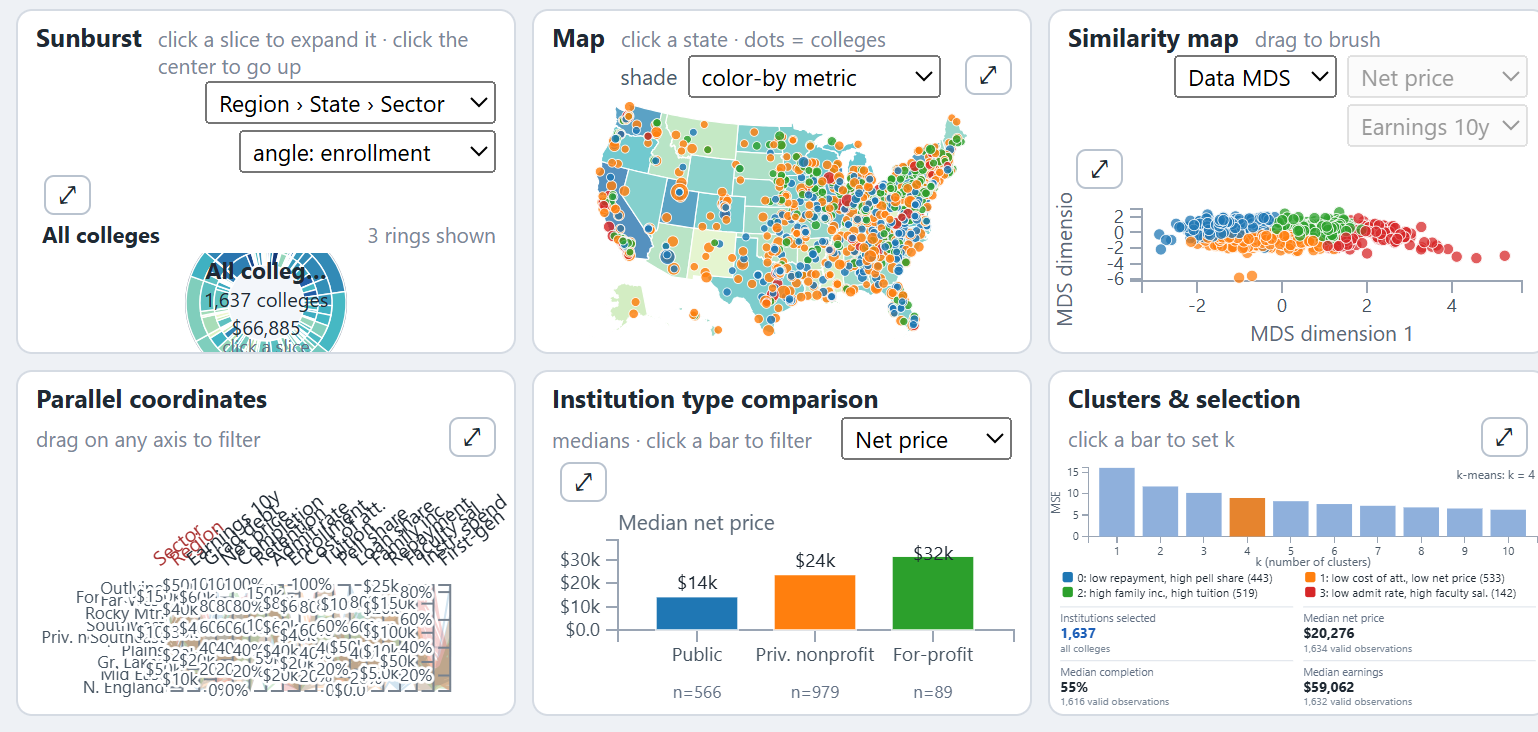
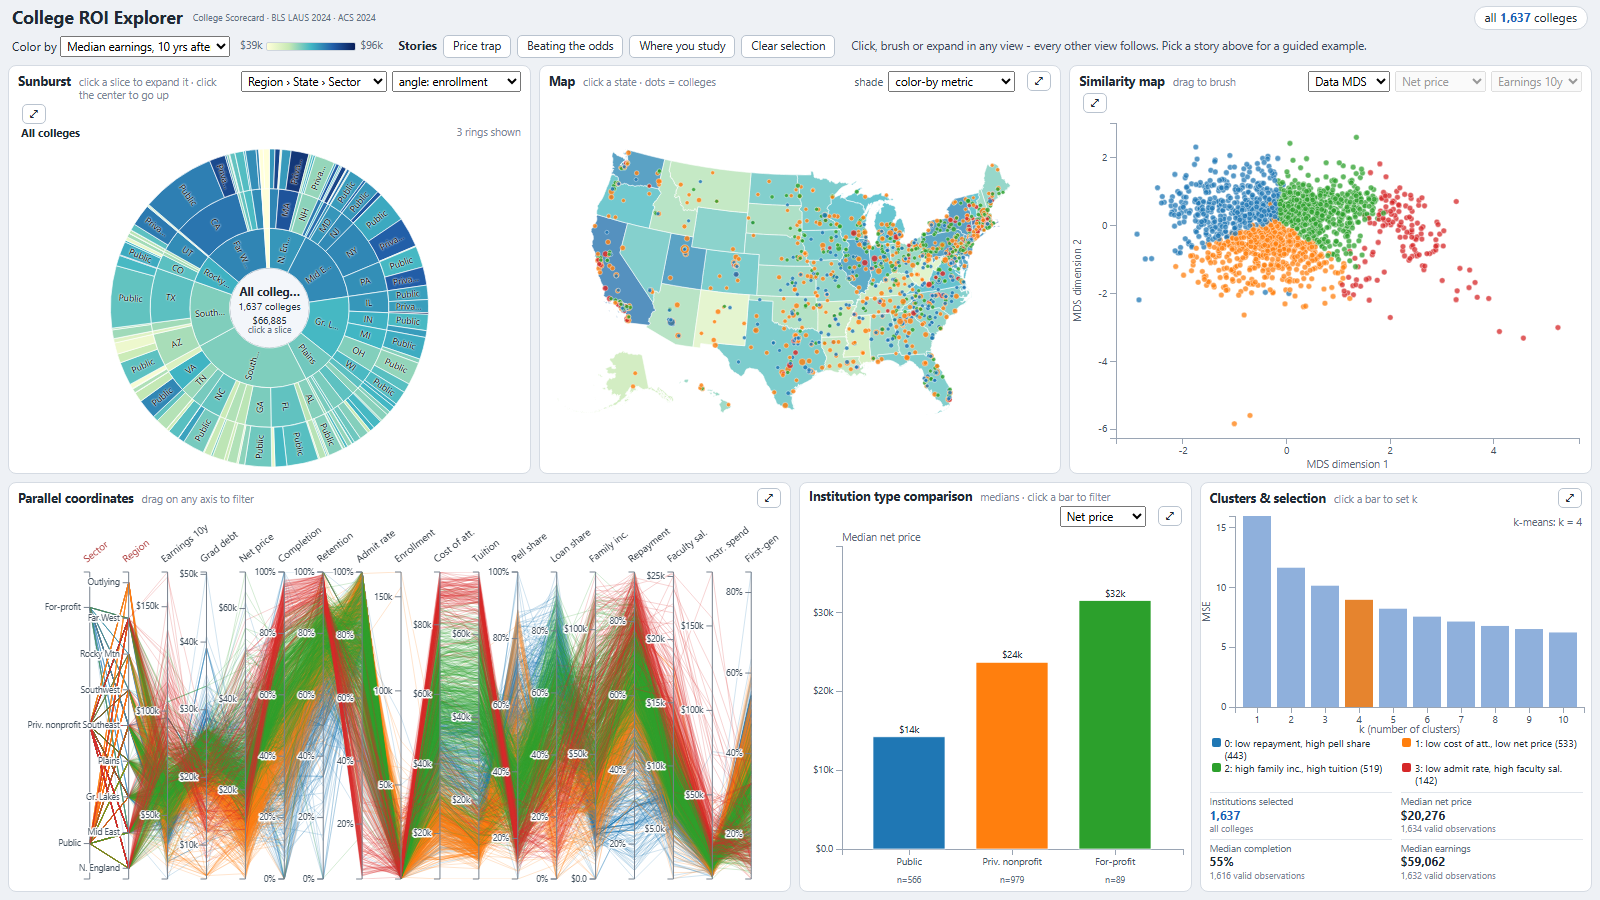
Fix Beyond-Tuition dashboard screenshot

diff --git a/portfolio/index.html b/portfolio/index.html
@@ -130,7 +130,7 @@
         </ul>
       </div>
       <figure class="beyond-shot">
-        <img src="../assets/project-beyond-tuition.png" width="1538" height="732" loading="lazy" decoding="async" alt="A linked College ROI dashboard with sunburst, state map, similarity map, parallel coordinates, sector comparison, and cluster selection views.">
+        <img src="../assets/project-beyond-tuition.png" width="1600" height="900" loading="lazy" decoding="async" alt="A linked College ROI dashboard with sunburst, state map, similarity map, parallel coordinates, sector comparison, and cluster selection views.">
         <figcaption>Six coordinated views across 1,637 institutions.</figcaption>
       </figure>
     </section>
